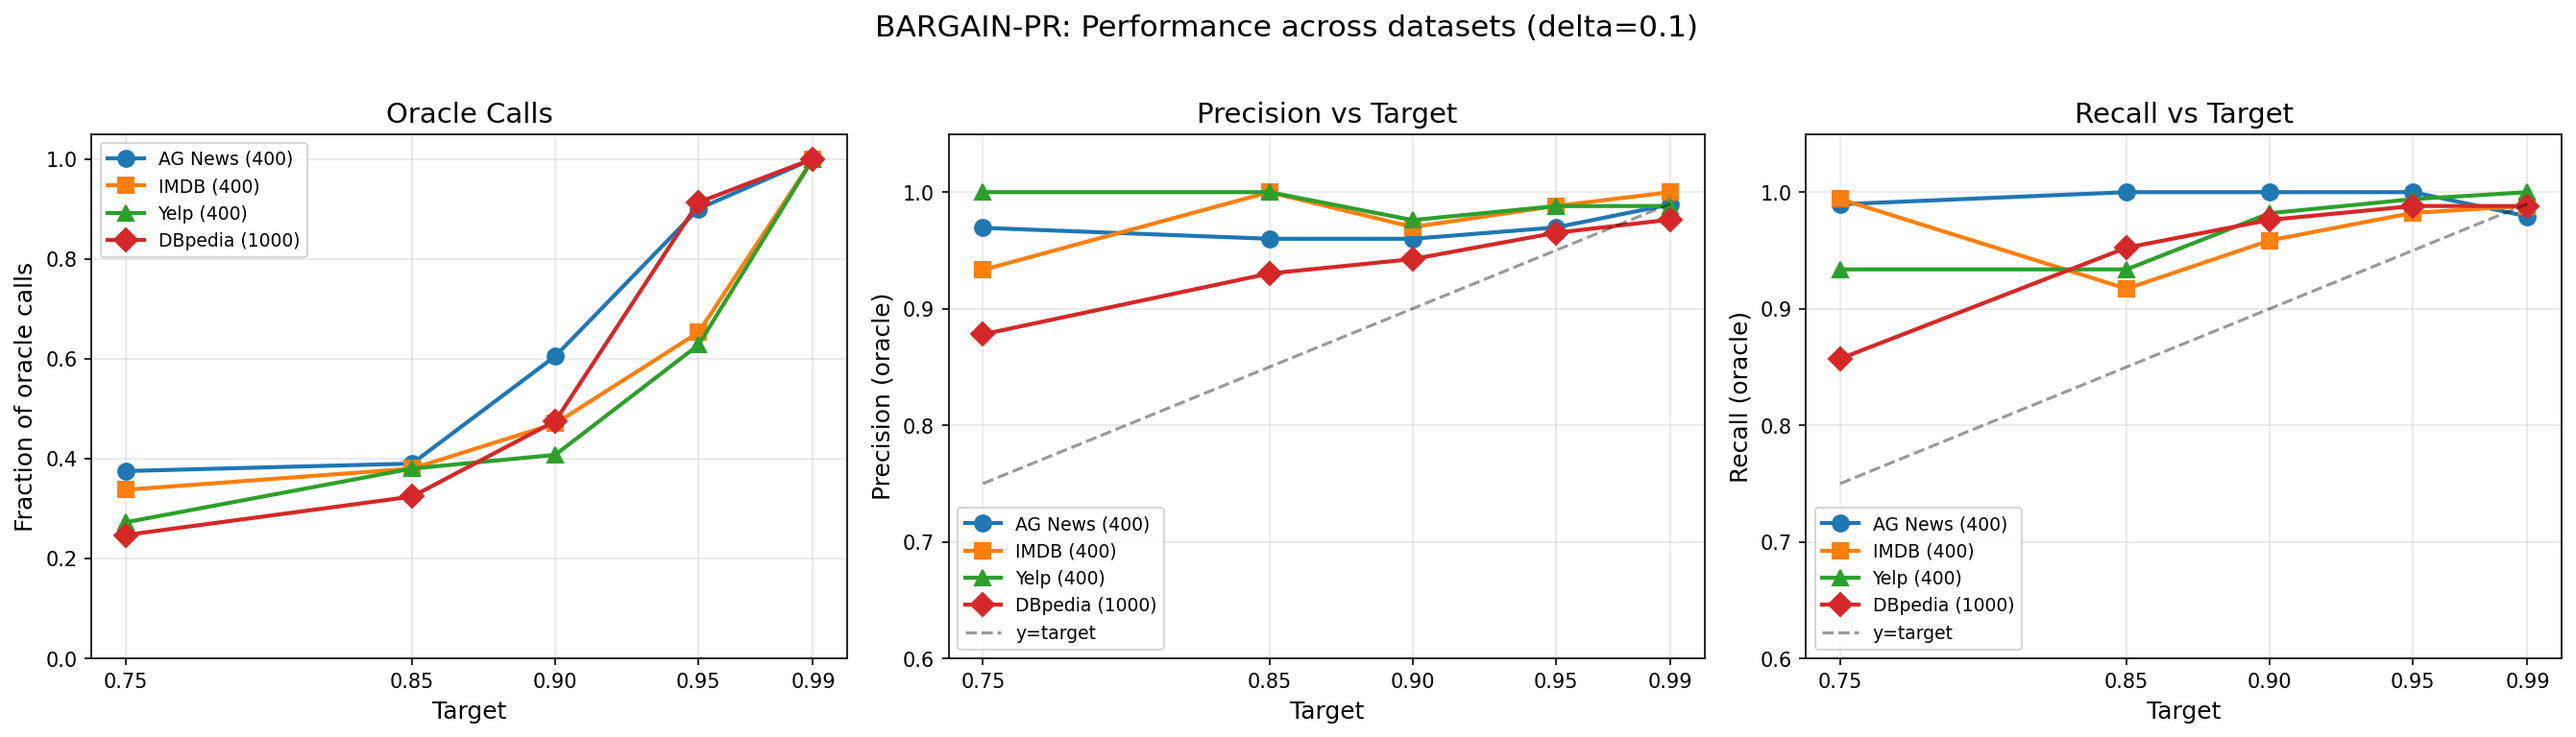
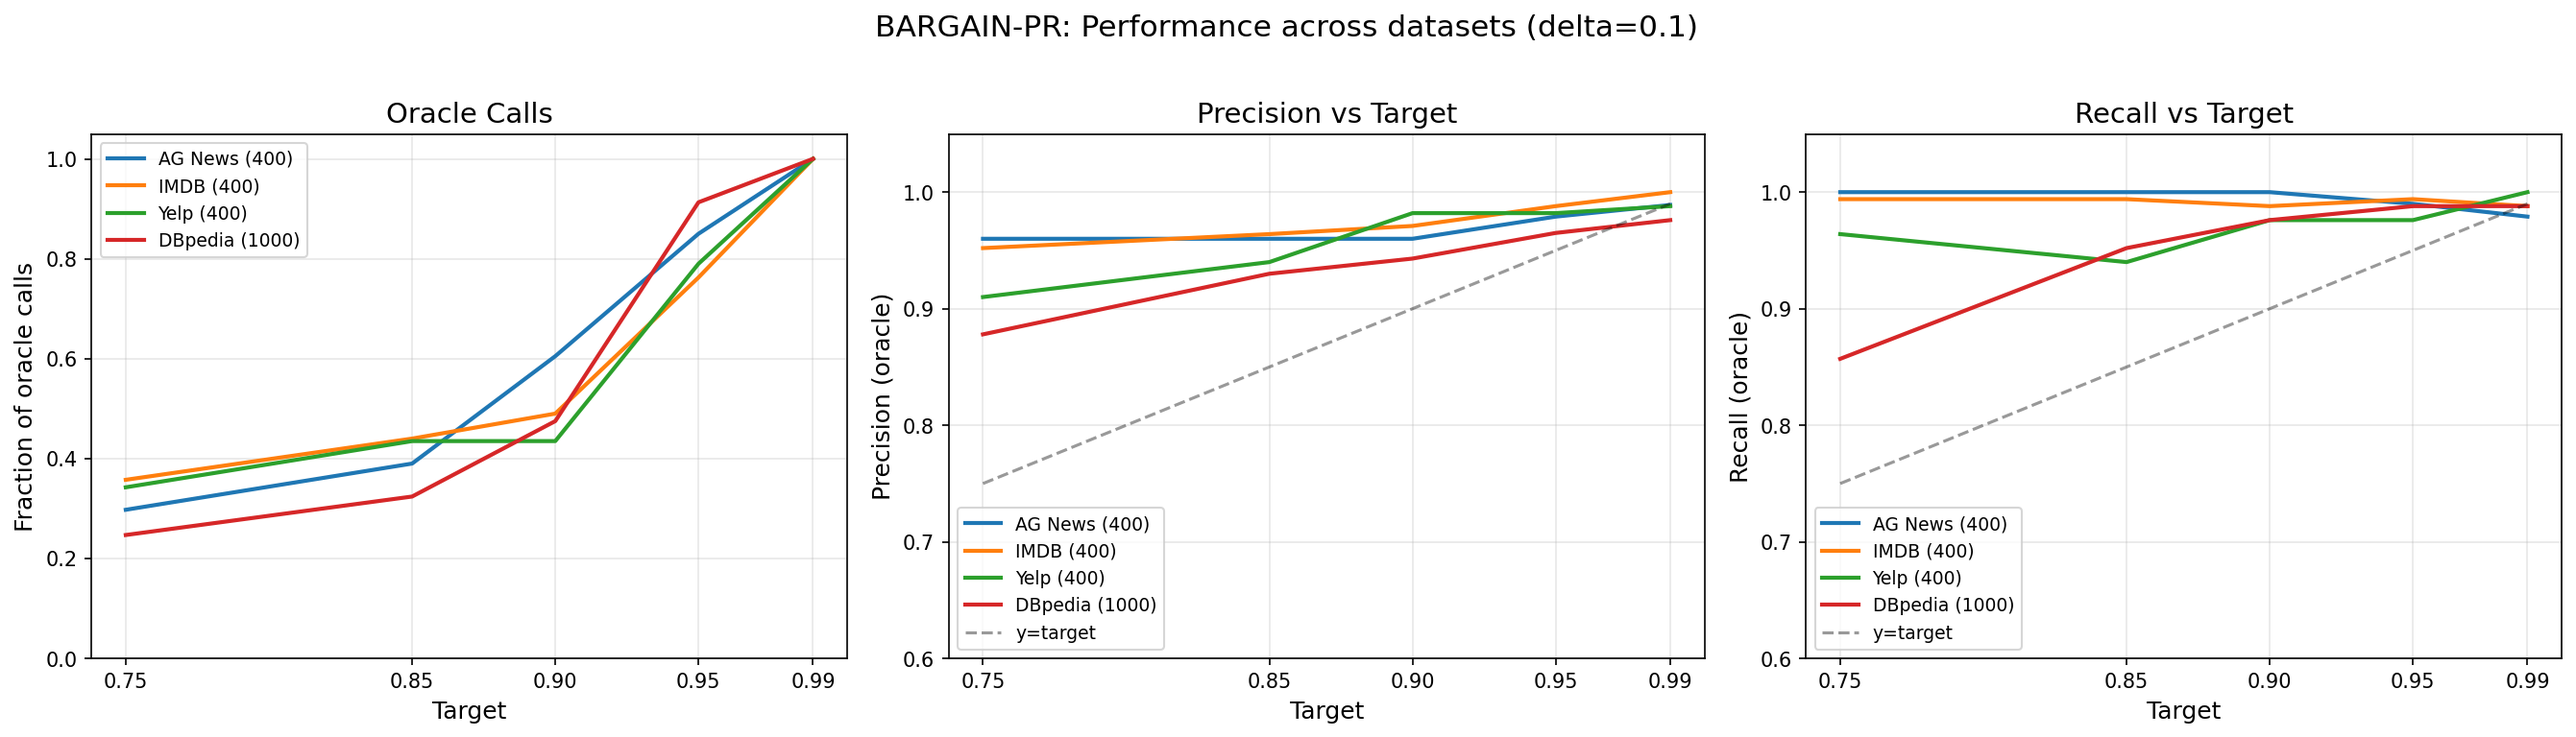
Remove markers from plots, use color only
https://claude.ai/code/session_011vFMnYGpnc6jgfSKbviRxo

diff --git a/examples/exp/plot_oracle_calls.py b/examples/exp/plot_oracle_calls.py
@@ -141,13 +141,12 @@ with ThreadPoolExecutor(max_workers=4) as executor:
 plot_order = [name for name in datasets_config if name in results]
 
 fig, axes = plt.subplots(1, 3, figsize=(18, 5))
-markers = ['o', 's', '^', 'D']
 
 ax = axes[0]
-for i, ds_name in enumerate(plot_order):
+for ds_name in plot_order:
     r = results[ds_name]
     fractions = [c / r['n'] for c in r['oracle_calls']]
-    ax.plot(targets, fractions, marker=markers[i], label=ds_name, linewidth=2, markersize=8)
+    ax.plot(targets, fractions, label=ds_name, linewidth=2)
 ax.set_xlabel('Target', fontsize=12)
 ax.set_ylabel('Fraction of oracle calls', fontsize=12)
 ax.set_title('Oracle Calls', fontsize=14)
@@ -157,9 +156,9 @@ ax.set_xticks(targets)
 ax.grid(True, alpha=0.3)
 
 ax = axes[1]
-for i, ds_name in enumerate(plot_order):
+for ds_name in plot_order:
     r = results[ds_name]
-    ax.plot(targets, r['precisions'], marker=markers[i], label=ds_name, linewidth=2, markersize=8)
+    ax.plot(targets, r['precisions'], label=ds_name, linewidth=2)
 ax.plot(targets, targets, 'k--', alpha=0.4, label='y=target')
 ax.set_xlabel('Target', fontsize=12)
 ax.set_ylabel('Precision (oracle)', fontsize=12)
@@ -170,9 +169,9 @@ ax.set_xticks(targets)
 ax.grid(True, alpha=0.3)
 
 ax = axes[2]
-for i, ds_name in enumerate(plot_order):
+for ds_name in plot_order:
     r = results[ds_name]
-    ax.plot(targets, r['recalls'], marker=markers[i], label=ds_name, linewidth=2, markersize=8)
+    ax.plot(targets, r['recalls'], label=ds_name, linewidth=2)
 ax.plot(targets, targets, 'k--', alpha=0.4, label='y=target')
 ax.set_xlabel('Target', fontsize=12)
 ax.set_ylabel('Recall (oracle)', fontsize=12)
